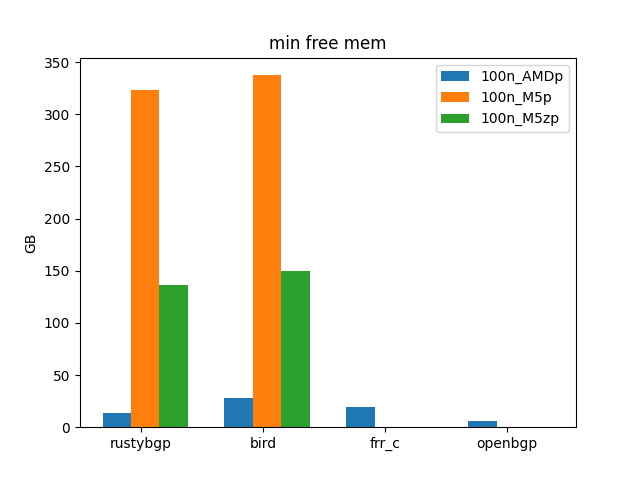
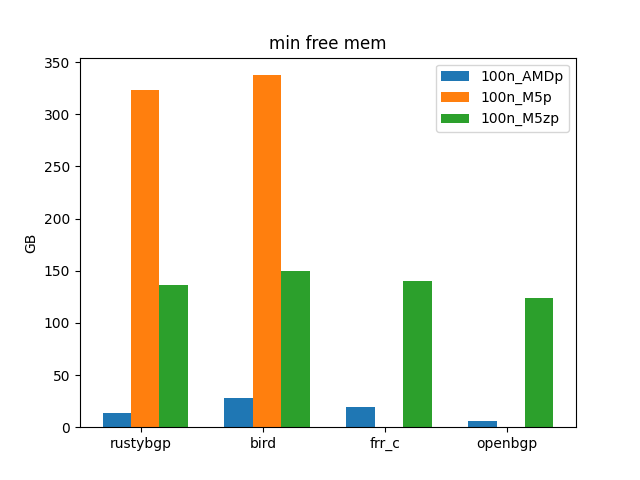
bgperf5 clean up intro and conclusion. fix some graphs

Changed region(s): [[0.625, 0.5625, 0.6875, 0.9062], [0.8125, 0.625, 0.875, 0.9062]]

diff --git a/_drafts/2021-10-101-bgp-perf5-1000-internet-neighbors.md b/_drafts/2021-10-101-bgp-perf5-1000-internet-neighbors.md
@@ -13,7 +13,9 @@ description: Testing to the limit of how many neighbors these BGP stacks can hav
 - 3rd Post [Comparing Open Source BGP stacks with internet routes](https://elegantnetwork.github.io/posts/comparing-open-source-bgp-internet-routes)
 - 4th Post [Bird on Bird, Episode 4 of BGP Perf testing ](https://elegantnetwork.github.io/posts/bird-on-bird-bgp-perf-episode4)
 
-In the 3rd Post we compared these open source BGP stacks with neighbors that had full internet stacks with up to 50 neighbors. What happens if we try to get 1000 Neighbors with full internet routes? Is that realistic? I don't know. I have heard of people with 1M L3VPN routes that want hundreds of neighbors. I had not thought this sort of testing would be useful, but then I started running experiments and found that I could break the stacks in interesting ways so I figured I should write up a blog post.
+In the 3rd Post we compared these open source BGP stacks with up to 50 neighbors that had full internet stacks. What happens if we try to get 1000 Neighbors with full internet routes? Is that realistic? I don't know. It's not important for more people using BGP stacks of any sort, but it's probably interesting so somebody. I have heard of people with 1M L3VPN prefixes that want hundreds of neighbors. I was asked if it's possible to test 1000 neighbors. I don't have a good way to test 1M L3VPN prefixes right now (I think all I'd need is an MRT file with that data, but I don't have that now.) So for now the best I can do is to do the same testing I've done in the last two posts, but make it a lot more neighbors. It won't be the same exactly, but it should be representative.
+
+I had not thought this sort of testing would be useful because of the unlikeliness of needing 100s of neighbors with full internet table but then I started running experiments and found that I could break the stacks in interesting ways so I figured I should write up a blog post.
 
 # Test setup
 A major question is if it's reasonable to be able to test 1000 neighbors with full internet tables (800K prefixes). I wasn't sure, but [bgperf](https://github.com/jopietsch/bgperf) has support for playing back mrt files using [bgpdump2](https://github.com/rtbrick/bgpdump2) which is very efficient. As always in these blog posts, I'm testing multiple things. The first is if bgperf on the hardware I have available usefully perform this test. The second is how well these stacks do with this many prefixes and neighbors. For the first I'm using different hardware: home computer with 64 GB RAM, EC2 M5.xlarge 24 with 96 cores and 384 GB RAM, and EC2 M5z with 48 cores and 184 GB RAM. I want to be able to take advantage of the cheapest hardware available for any test. It turns out the most important thing is not running out of memory.
@@ -278,7 +280,7 @@ memory used by target:
 I don't see anything interesting in these other than in comparing to the other stacks, which we did above.
 ## RustyBGP
 
-I successfully tested RustyBGP with 500 neighbors on the M5.24xlarge which has 96 cores and 384 GB of RAM. More neighbors than that ran into a problem I mentioned in the previous blog post: every second bgperf collects information from the target about how many prefixes have been received by each neighbor. After a while, in some of the tests RustyBGP stops responding to that data, which completely freaks out bgperf and it fails. I don't know if the problem is that there isn't enough CPU resources or something else. In other words, if RustyBGP had it's own dedicated resource and bgpdump2 it's own dedicated resources would this break? I can't be sure but I kind of think so since bgpdump2 does it's greatest work at the beginning when it's starting up.
+I successfully tested RustyBGP with 500 neighbors on the M5.24xlarge which has 96 cores and 384 GB of RAM. More neighbors than that ran into a problem I mentioned in the previous blog post. Every second bgperf collects information from the target about how many prefixes have been received by each neighbor. After a while, in some of the tests RustyBGP stops responding to that data, which completely freaks out bgperf and it fails. I don't know if the problem is that there isn't enough CPU resources or something else. In other words, if RustyBGP had it's own dedicated resource and bgpdump2 it's own dedicated resources would this break? I can't be sure but I kind of think it would still fail since bgpdump2 does it's greatest work at the beginning when it's starting up which means that there shouldn't be contention from the rest of the system.
 
 At 500, it finishes in about 1700 seconds, which is not that much longer than the other three took to do 100 neighbors.
 
@@ -309,13 +311,12 @@ The % idle of the machine.
 
 
 # Conclusion
+Is it important to test 1000 neighbors with full internet routes? Probably only for a small number of people. Can we learn something anyway? One of my hopes in all of these BGP performance posts is that more people realize that it's possible to do performance testing and there are thigs to learn. Also, maybe there are things that haven't been possible in the past that could be done with very high performing BGP stacks.
+
 Is it reasonable to test 1000 neighbors with full internet routes using bgperf? Possibly, though I didn't get past 500 neighbors. It is likely that 1000 neighbors would have needed more memory, and that is available on other EC2 instances which I'm not sure that there are other instances that have more CPU. At some point it would be necessary to figure out mutli-host bgperf. So I think it would work, but I couldn't prove it here. Each of these host platforms performed fine and there isn't much difference in performance unless you run out of memory. 
 
-However, only RustyBGP can get near that level. And it requires a lot of memory. Both for RustyBGP and for the testers
+However, only RustyBGP can get near that level. And it requires a lot of memory. Both for RustyBGP and for the testers. If you require loads anywhere like this you need a BGP stack that can use multiple cores. However, I don't think RustyBGP is production ready, but it's promising.
 
 FRRouting breaks first, before 150 neighbors. OpenBGPD completes at 300 neighbors but it takes so long I don't think it's practical. It struggles even at 150. Next is BIRD at between 200 and 250 neighbors, let's say 225. 
 
-We also added new graphs to see what these stacks are doing 
-
-
-How did each of these scale
+We also added new graphs to see what these stacks are doing. I'm still trying to understand how they are useful. They are useful in showing things like when BIRD gets stuck for almost an hour. However, the fact that OpenBGPD has a different curve for neighbors than FRRouting, I don't know if that's important or not.
